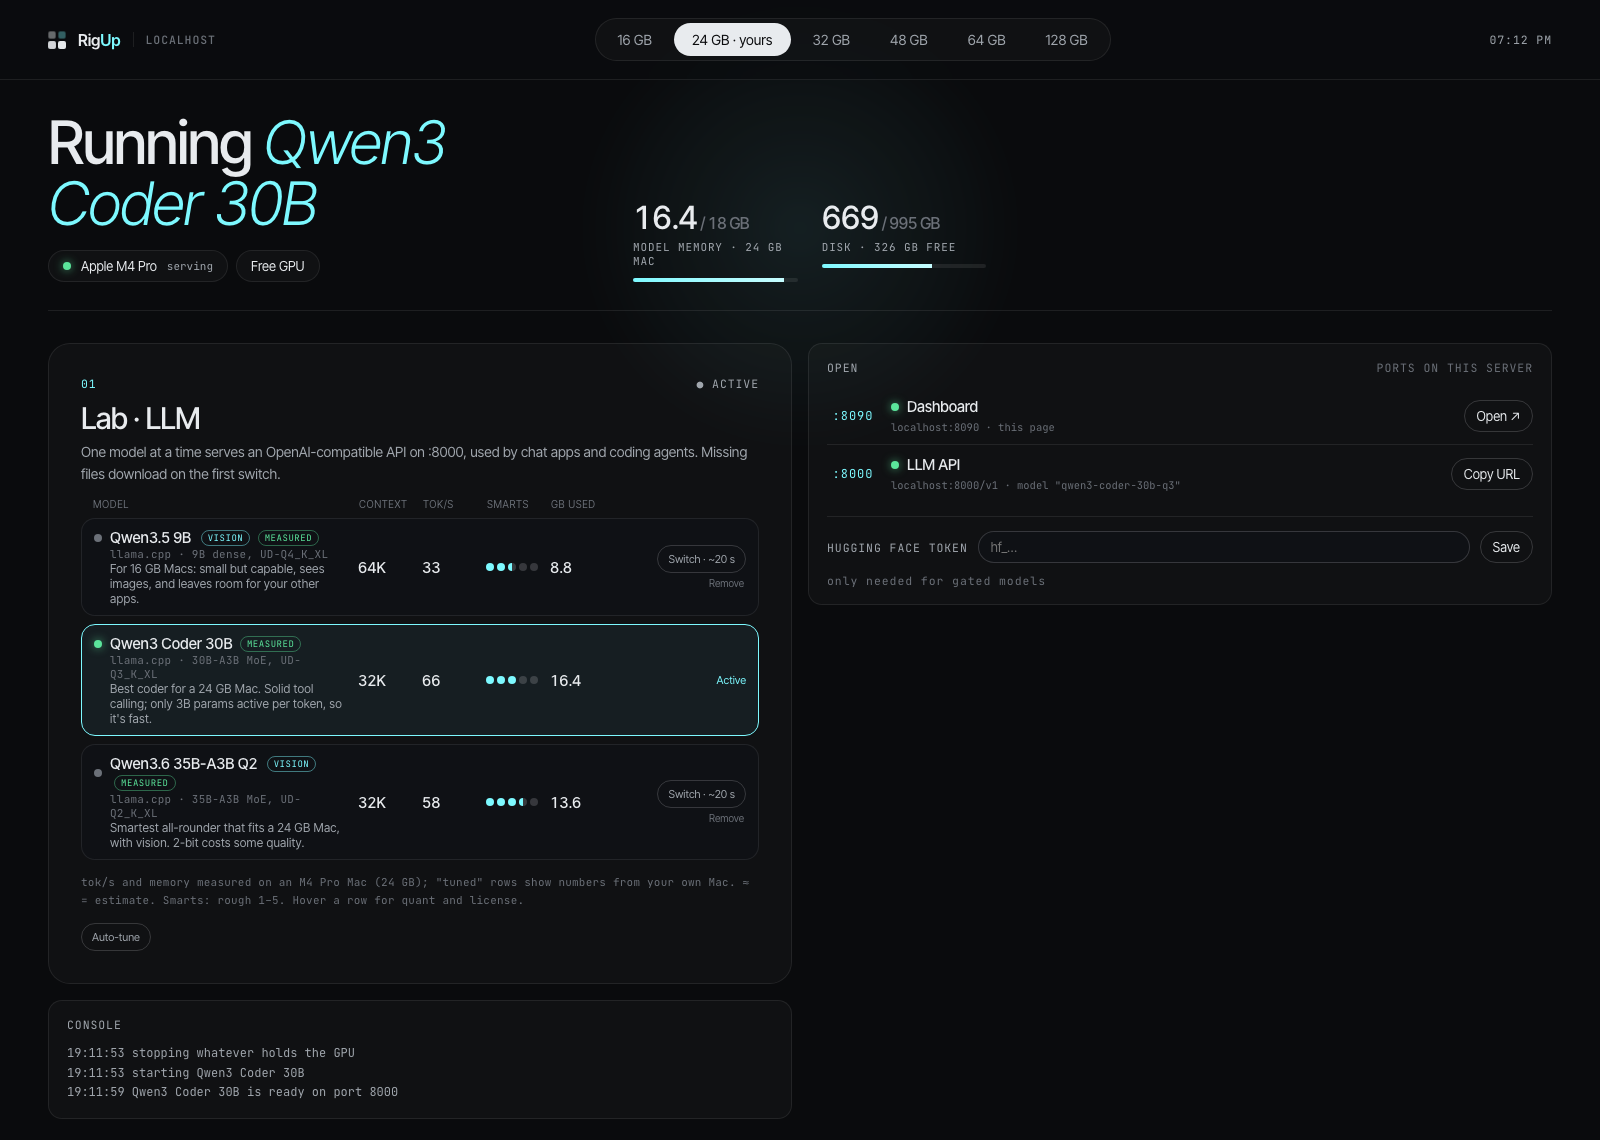
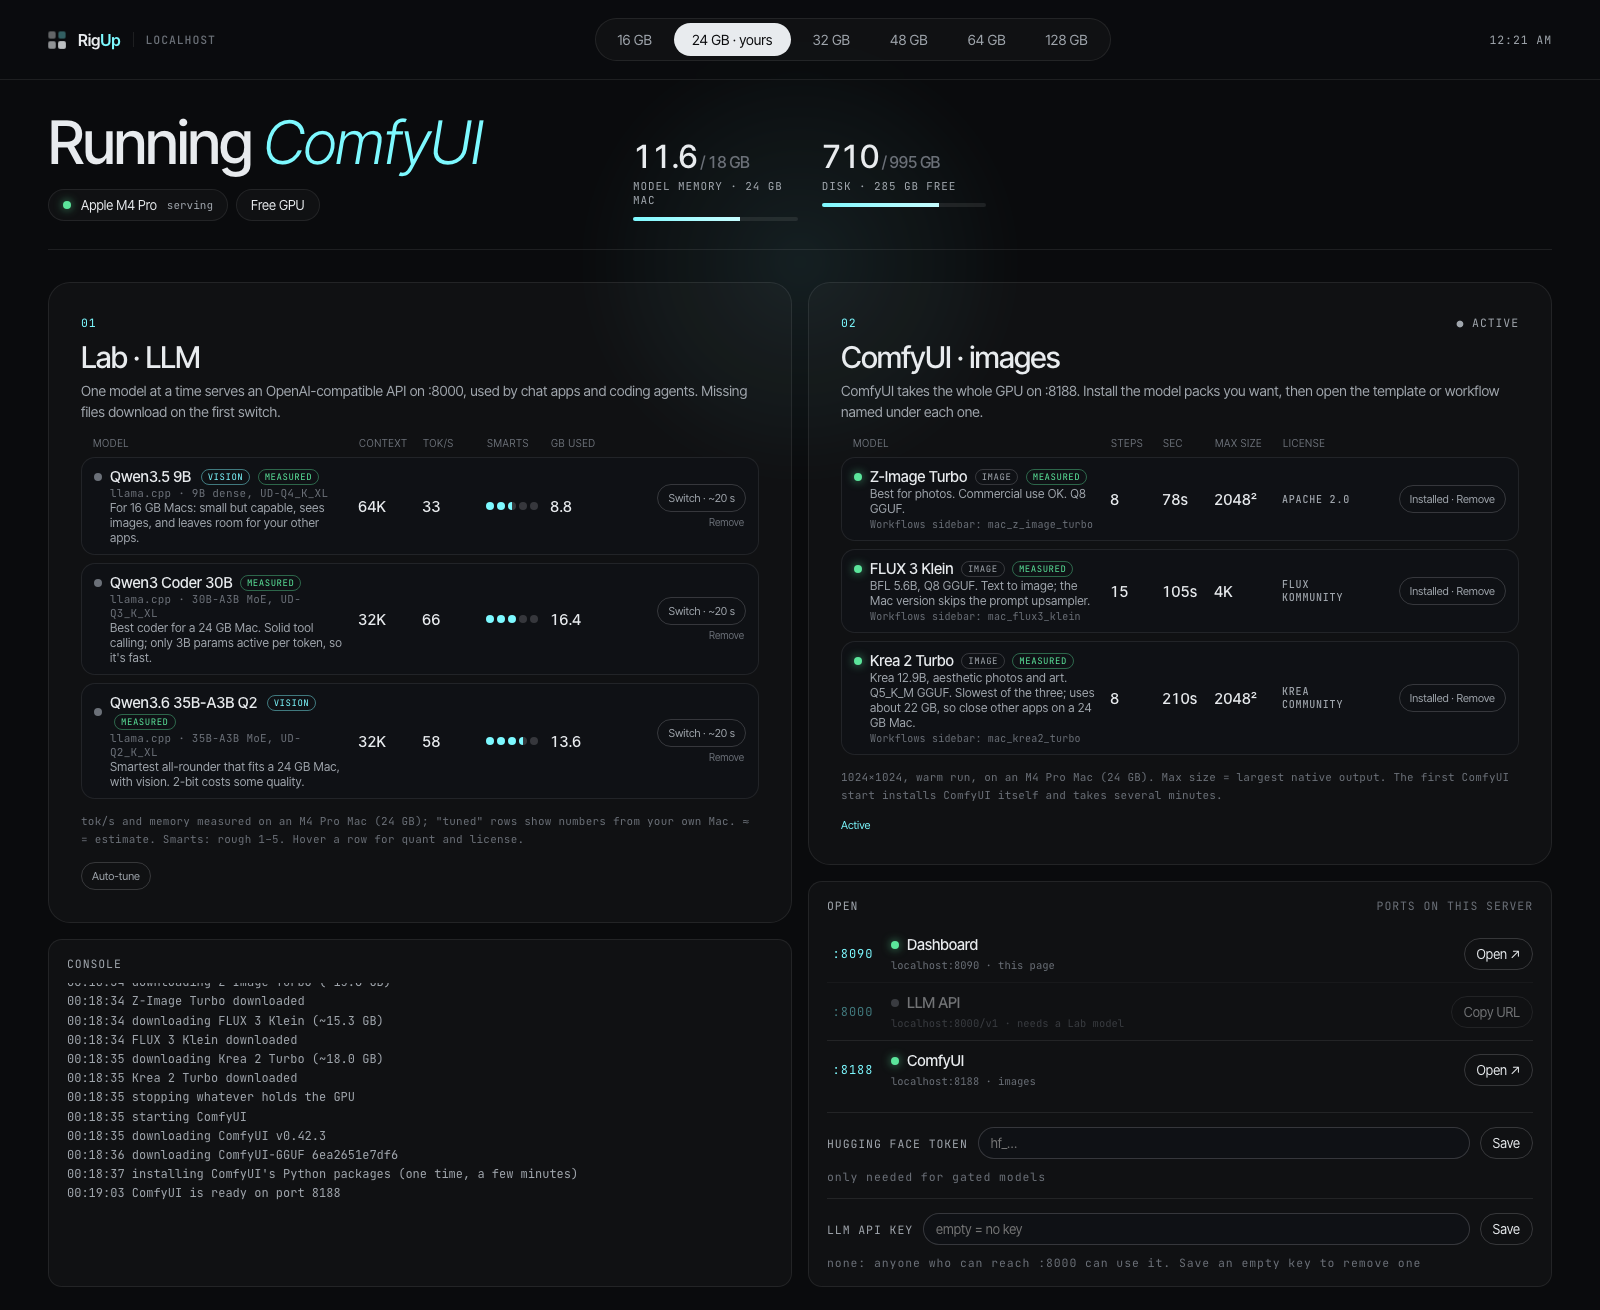
Mac screenshot with the ComfyUI card; ComfyUI link says images on a Mac

diff --git a/web/app.js b/web/app.js
@@ -126,7 +126,7 @@ function render() {
     ['Dashboard', `http://${host}:${location.port || 80}`, true, 'this page'],
     ['Open WebUI', `http://${host}:${S.ports.webui}`, true, llmUp ? 'chat with the Lab model' : 'needs a Lab model for answers'],
     ['LLM API', `http://${host}:${S.ports.llm}/v1`, llmUp, llmUp ? `model "${mode}"` : 'needs a Lab model', true],
-    ['ComfyUI', `http://${host}:${S.ports.comfy}`, comfyUp, comfyUp ? 'images and video' : 'needs ComfyUI mode'],
+    ['ComfyUI', `http://${host}:${S.ports.comfy}`, comfyUp, comfyUp ? (mac ? 'images' : 'images and video') : 'needs ComfyUI mode'],
   ].filter(([n, url]) => Object.values(S.ports).includes(+url.split(':')[2].split('/')[0]) || n === 'Dashboard');
   $('#g-links').innerHTML = links.map(([n, url, on, sub, copy]) => `<div class="link-row ${on ? '' : 'off'}">
     <span class="port mono">:${esc(url.split(':')[2].split('/')[0])}</span>

diff --git a/README.md b/README.md
@@ -127,7 +127,7 @@ RigUp also runs on Apple Silicon Macs (M1 or newer): the LLMs (chat, coding agen
 
 ![RigUp on a Mac](docs/dashboard-mac.png)
 
-*Qwen3 Coder 30B on an M4 Pro Mac with 24 GB.*
+*ComfyUI running on an M4 Pro Mac with 24 GB, next to the LLMs it can switch to.*
 
 ```bash
 git clone https://github.com/guscanales/rigup.git
